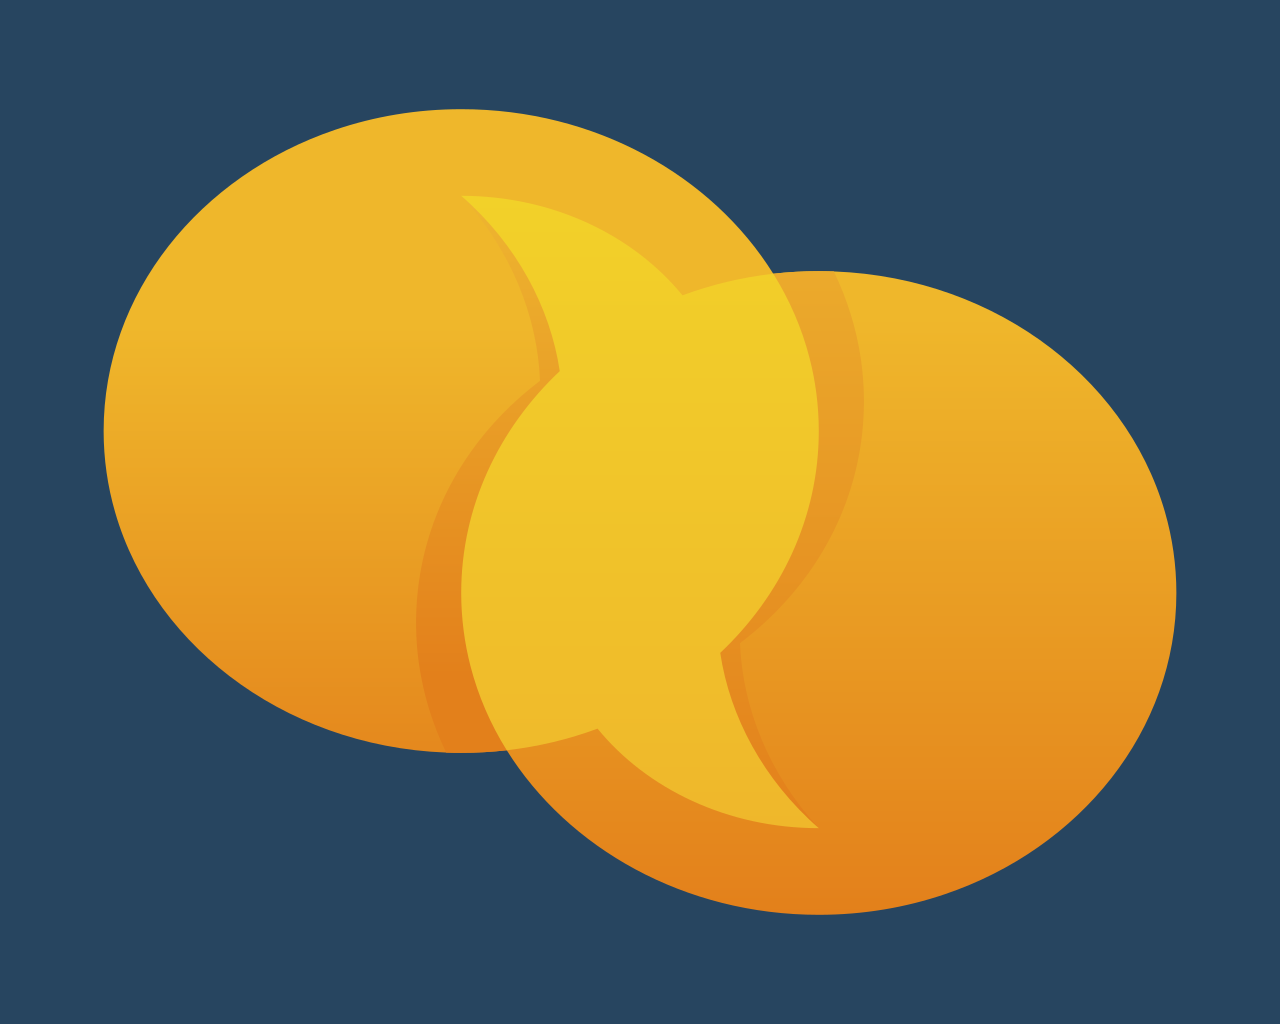
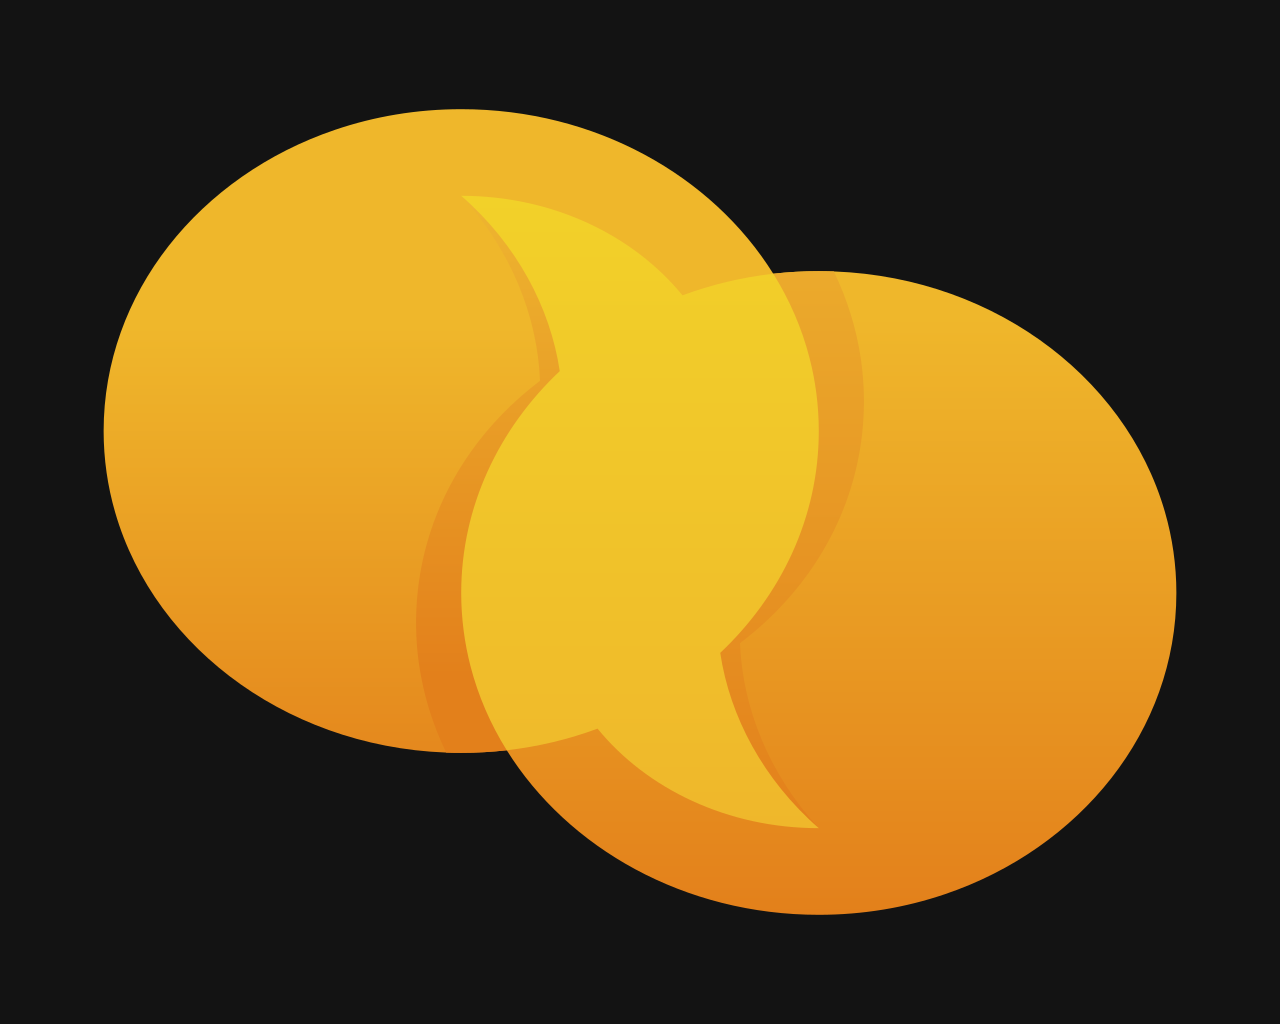
pressable user card UI & change app primary color

diff --git a/constants/userData.ts b/constants/userData.ts
@@ -1,82 +1,84 @@
-export const userData = [
+import { UserInfo } from "@/utils/types/user";
+
+export const userData: UserInfo[] = [
   {
-    id: 1,
+    id: "1",
     first_name: "Viv",
     last_name: "Hughesdon",
     phone_number: "+93-700-837-0454",
     pic_url: "http://dummyimage.com/220x216.png/dddddd/000000",
-    selected_language: "Kurdish",
+    selected_language: "Spanish",
   },
   {
-    id: 2,
+    id: "2",
     first_name: "Gayleen",
     last_name: "Isley",
     phone_number: "+86-568-575-2259",
     pic_url: "http://dummyimage.com/121x145.png/dddddd/000000",
-    selected_language: "Punjabi",
+    selected_language: "English",
   },
   {
-    id: 3,
+    id: "3",
     first_name: "Mordy",
     last_name: "Stride",
     phone_number: "+27-797-358-4611",
     pic_url: "http://dummyimage.com/146x241.png/cc0000/ffffff",
-    selected_language: "Dutch",
+    selected_language: "English",
   },
   {
-    id: 4,
+    id: "4",
     first_name: "Ruthanne",
     last_name: "Mattacks",
     phone_number: "+54-835-193-4703",
     pic_url: "http://dummyimage.com/221x186.png/cc0000/ffffff",
-    selected_language: "Filipino",
+    selected_language: "Spanish",
   },
   {
-    id: 5,
+    id: "5",
     first_name: "Wildon",
     last_name: "Pate",
     phone_number: "+225-383-517-9003",
     pic_url: "http://dummyimage.com/156x213.png/ff4444/ffffff",
-    selected_language: "Punjabi",
+    selected_language: "Mandarin",
   },
   {
-    id: 6,
+    id: " 6",
     first_name: "Wyatt",
     last_name: "Chatenet",
     phone_number: "+351-408-616-5944",
     pic_url: "http://dummyimage.com/216x210.png/cc0000/ffffff",
-    selected_language: "Persian",
+    selected_language: "Mandarin",
   },
   {
-    id: 7,
+    id: " 7",
     first_name: "Joyan",
     last_name: "Retchless",
     phone_number: "+51-407-555-1471",
     pic_url: "http://dummyimage.com/117x126.png/cc0000/ffffff",
-    selected_language: "Maltese",
+    selected_language: "English",
   },
   {
-    id: 8,
+    id: "8",
     first_name: "Henka",
     last_name: "Hastin",
     phone_number: "+63-989-823-7741",
     pic_url: "http://dummyimage.com/144x126.png/5fa2dd/ffffff",
-    selected_language: "Kannada",
+    selected_language: "English",
   },
   {
-    id: 9,
+    id: "9",
     first_name: "Elias",
     last_name: "Capinetti",
     phone_number: "+64-608-254-8372",
     pic_url: "http://dummyimage.com/172x166.png/5fa2dd/ffffff",
-    selected_language: "Māori",
+    selected_language: "Spanish",
   },
   {
-    id: 10,
+    id: "10",
     first_name: "Charmine",
     last_name: "Krook",
     phone_number: "+63-814-845-5621",
     pic_url: "http://dummyimage.com/154x221.png/dddddd/000000",
-    selected_language: "Māori",
+    selected_language: "Mandarin",
   },
 ];

diff --git a/app/(authenticated)/(tabs)/index.tsx b/app/(authenticated)/(tabs)/index.tsx
@@ -1,24 +1,64 @@
-import { View, Text, FlatList } from "react-native";
+import {
+  View,
+  Text,
+  FlatList,
+  ListRenderItem,
+  Image,
+  Pressable,
+} from "react-native";
 import { tw } from "@/utils/tailwind";
 import { userData } from "@/constants/userData";
+import { UserInfo } from "@/utils/types/user";
+import { Colors } from "@/constants/colors";
+
 const HomeScreen = () => {
-  const renderFriendsList = () => {
+  const handleSelectedUser = () => {};
+
+  const renderFriendsList: ListRenderItem<UserInfo> = ({ item }) => {
     return (
-      <View>
-        <Text>User</Text>
-      </View>
+      <Pressable
+        onPress={handleSelectedUser}
+        style={({ pressed }) => [
+          tw.style("flex-row items-center gap-3 px-3"),
+          pressed
+            ? {
+                backgroundColor: "#434446",
+                // opacity: 0.75,
+              }
+            : {},
+        ]}>
+        <Image
+          source={{ uri: item.pic_url }}
+          style={tw.style("h-12 w-12 rounded-full")}
+        />
+        <View
+          style={tw.style(
+            "flex w-full border-b-[0.5px] border-gray-400/30 py-3",
+          )}>
+          <Text style={tw.style("text-sm font-semibold text-undertone")}>
+            {item.first_name} {item.last_name}
+          </Text>
+          <Text style={tw.style("text-xs text-gray-500")}>
+            {item.phone_number}
+          </Text>
+        </View>
+      </Pressable>
     );
   };
 
   return (
-    <View style={tw.style("flex-1 bg-primary px-5")}>
-      <View style={tw.style("mt-2")}>
+    <View style={tw.style("flex-1 gap-2 bg-primary")}>
+      <View style={tw.style("mt-2 px-5")}>
         <Text style={tw.style("text-base font-semibold text-undertone")}>
-          Friends: 20
+          Start Chatting
         </Text>
       </View>
       <View>
-        <FlatList renderItem={renderFriendsList} data={userData} />
+        <FlatList
+          renderItem={renderFriendsList}
+          data={userData}
+          keyExtractor={(item) => item.id}
+        />
       </View>
     </View>
   );

diff --git a/tailwind.config.js b/tailwind.config.js
@@ -5,9 +5,9 @@ module.exports = {
     extend: {
       colors: {
         white: "#F5F5F5",
-        // primary: "#09111B",
-        primary: "#274560",
-        secondary: "#0D2235",
+        primary: "#131313",
+        // primary: "#274560",
+        secondary: "#252525",
         accent: "#51C3CB",
         undertone: "#E6EFF5",
         highlight: "#F3C82C",

diff --git a/app/(auth)/_layout.tsx b/app/(auth)/_layout.tsx
@@ -9,9 +9,9 @@ const AuthLayout = () => {
         title: "",
         headerBackTitle: "",
         headerShadowVisible: false,
-        headerTintColor: "#E6EFF5",
+        headerTintColor: "#131313",
         headerStyle: {
-          backgroundColor: "#274560",
+          backgroundColor: "#131313",
         },
       }}>
       <Stack.Screen name="index" />

diff --git a/constants/colors.ts b/constants/colors.ts
@@ -1,11 +1,11 @@
 export const Colors = {
   white: "#F5F5F5",
-  // primary: "#09111B",
-  primary: "#274560",
+  primary: "#131313",
+  // primary: "#274560",
   accent: "#51C3CB",
   undertone: "#E6EFF5",
   highlight: "#F3C82C",
   highlightAccent: "#E4871D",
-  secondary: "#0D2235",
+  secondary: "#252525",
   darkGrey: "#323232",
 };

diff --git a/app/_layout.tsx b/app/_layout.tsx
@@ -1,5 +1,6 @@
 import { AuthProvider, useAuth } from "@/context/AuthProvider";
 import { Stack, useRouter, useSegments } from "expo-router";
+import { StatusBar } from "expo-status-bar";
 import { useEffect } from "react";
 
 const InitialLayout = () => {

diff --git a/utils/types/user.ts b/utils/types/user.ts
@@ -3,6 +3,7 @@ export type Language = {
 };
 
 export type UserInfo = {
+  id: string;
   phone_number: string;
   first_name: string;
   last_name: string;
